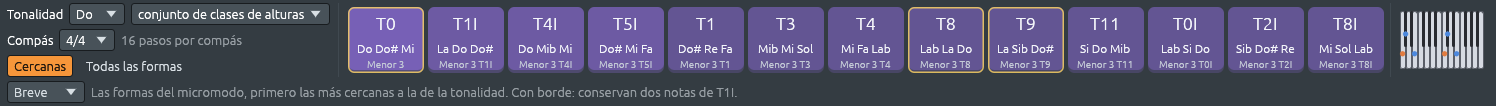
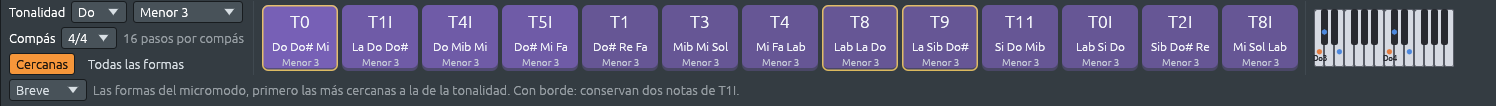
Harmony keys: write every note of a form, name the set under it
With a hexachord as the key, six note names did not fit in a key and
ran into the next one, worst in solfège ("Mib Mi Sol Lab Si Do" in
Webern's trichords with its 6-20 as the key). The keys of a row of
forms or groups now all take the width their widest notes need, at
least the usual width; a row too long for the window wraps.

Under a form's key was its name as the chord sheet writes it, which
counts from the class's prime form on C, while the key's label counts
its degree from the key: T0 said "6-20 T3". The key now names the set
(or micromode) every form is, "6-20"; the detailed tooltip gives the
sheet's name. Chord micromodes keep their triads.

A test opens Webern's trichords in Spanish with 6-20 as the key and
checks that no key's notes run into the next and that 6-20 is under
the keys. Manual and book (English and Spanish) describe it, with the
set and micromode key screenshots taken again.

Assisted-by: Claude Code

Changed region(s): [[0.0, 0.0, 1.0, 0.7075], [0.0, 0.566, 0.492, 0.9906], [0.0, 0.4528, 0.0922, 0.5377]]

diff --git a/crates/lineup-app/src/harmony_keys.rs b/crates/lineup-app/src/harmony_keys.rs
@@ -593,6 +593,7 @@ impl HarmonyKeys {
             .filter(|&form| Degree::of(scale, form).is_some());
         let next = last.map(degree::smooth_links).unwrap_or_default();
         let mut pressed = None;
+        let width = keys_width(ui, forms);
         ui.add_space(4.0);
         ui.horizontal_wrapped(|ui| {
             ui.vertical(|ui| self.settings(ui, project, here, parts, &mut actions));
@@ -602,7 +603,7 @@ impl HarmonyKeys {
                 let lit =
                     self.down.as_ref().is_some_and(|d| d.key == index) || playing == Some(set);
                 let outlined = !lit && next.contains(&set);
-                let response = form_key(ui, form, scale, lit, outlined);
+                let response = form_key(ui, form, width, scale, lit, outlined);
                 let hover = describe_form(form, index, self.hints, scale, last);
                 let response = crate::theme::hint(response, hover);
                 if response.is_pointer_button_down_on() {
@@ -711,6 +712,7 @@ impl HarmonyKeys {
         let scale = here;
         let heard_set: PitchSet = heard.iter().map(|note| note.pitch_class()).collect();
         let mut pressed = None;
+        let width = keys_width(ui, groups);
         ui.add_space(4.0);
         ui.horizontal_wrapped(|ui| {
             ui.vertical(|ui| self.settings(ui, project, here, parts, &mut actions));
@@ -718,7 +720,7 @@ impl HarmonyKeys {
             for (index, group) in groups.iter().enumerate() {
                 let lit = self.down.as_ref().is_some_and(|d| d.key == index)
                     || (heard_set.len() >= 2 && group.pitch_set() == heard_set);
-                let response = group_key(ui, group, lit);
+                let response = group_key(ui, group, width, lit);
                 let response =
                     crate::theme::hint(response, describe_group(group, index, self.hints));
                 if response.is_pointer_button_down_on() {
@@ -1382,15 +1384,33 @@ fn chord_label(chord: Chord, bass: PitchClass, scale: Scale) -> String {
         .unwrap_or_else(|| scale.chord_name(chord))
 }
 
+/// How wide `text` is, written at `size`.
+fn text_width(ui: &Ui, text: &str, size: f32) -> f32 {
+    ui.painter()
+        .layout_no_wrap(text.to_string(), FontId::proportional(size), KEY_TEXT)
+        .size()
+        .x
+}
+
+/// The width of every key in a row of `keys`: the usual width, or wider
+/// when a key's notes need it, so that they are written whole at the
+/// usual size. Six notes in solfège, "Mib Mi Sol Lab Si Do", need
+/// almost twice the usual width; all keys of a row get the same, so the
+/// row stays even.
+fn keys_width(ui: &Ui, keys: &[GroupKey]) -> f32 {
+    keys.iter()
+        .map(|key| {
+            let names: Vec<String> = key.names.iter().map(ToString::to_string).collect();
+            text_width(ui, &names.join(" "), 12.0) + 8.0
+        })
+        .fold(KEY_SIZE.x, f32::max)
+}
+
 /// The font size, at most `size`, at which `text` fits in `width`: a
 /// long chord name such as Cm(maj7)/Eb is written smaller instead of
 /// running over the edges of its key.
 fn fitting_size(ui: &Ui, text: &str, size: f32, width: f32) -> f32 {
-    let wide = ui
-        .painter()
-        .layout_no_wrap(text.to_string(), FontId::proportional(size), KEY_TEXT)
-        .size()
-        .x;
+    let wide = text_width(ui, text, size);
     if wide <= width {
         size
     } else {
@@ -1398,13 +1418,12 @@ fn fitting_size(ui: &Ui, text: &str, size: f32, width: f32) -> f32 {
     }
 }
 
-/// A harmony key of a row or a set: its label (which notes of the row it
-/// plays, or for a set the set they make), the notes, and underneath
-/// what the label does not already say (see [`group_footer`]).
-fn group_key(ui: &mut Ui, group: &GroupKey, lit: bool) -> Response {
+/// A harmony key of a row or a set, `width` wide (see [`keys_width`]):
+/// its label (which notes of the row it plays, or for a set the set they
+/// make), the notes, and underneath what the label does not already say
+/// (see [`group_footer`]).
+fn group_key(ui: &mut Ui, group: &GroupKey, width: f32, lit: bool) -> Response {
     let names: Vec<String> = group.names.iter().map(ToString::to_string).collect();
-    // Hexachords need a wider key for their six names.
-    let width = (names.len() as f32 * 15.0 + 12.0).max(KEY_SIZE.x);
     let (rect, response) = ui.allocate_exact_size(vec2(width, KEY_SIZE.y), Sense::click());
     ui.add_space(KEY_GAP - ui.spacing().item_spacing.x);
     if !ui.is_rect_visible(rect) {
@@ -1431,29 +1450,39 @@ fn group_key(ui: &mut Ui, group: &GroupKey, lit: bool) -> Response {
         FontId::proportional(fitting_size(ui, &group.label, 17.0, width - 8.0)),
         KEY_TEXT,
     );
+    let names = names.join(" ");
     painter.text(
         rect.center() + vec2(0.0, 9.0),
         Align2::CENTER_CENTER,
-        names.join(" "),
-        FontId::proportional(12.0),
+        &names,
+        FontId::proportional(fitting_size(ui, &names, 12.0, width - 6.0)),
         KEY_TEXT,
     );
+    let footer = group_footer(group);
     painter.text(
         rect.center_bottom() - vec2(0.0, 9.0),
         Align2::CENTER_CENTER,
-        group_footer(group),
-        FontId::proportional(10.0),
+        &footer,
+        FontId::proportional(fitting_size(ui, &footer, 10.0, width - 6.0)),
         KEY_TEXT_DIM,
     );
     response
 }
 
-/// A key of a micromode's form: its degree, its notes, and the
-/// micromode's own name for the form (or the triad it is) at the bottom.
-/// The more notes it keeps from home the brighter it is, so home and the
-/// forms next to it stand out; `outlined` marks a smooth way on.
-fn form_key(ui: &mut Ui, form: &GroupKey, scale: Scale, lit: bool, outlined: bool) -> Response {
-    let (rect, response) = ui.allocate_exact_size(KEY_SIZE, Sense::click());
+/// A key of a form of the set or micromode the key is, `width` wide (see
+/// [`keys_width`]): its degree, its notes, and at the bottom what it is
+/// (see [`form_footer`]). The more notes it keeps from home the brighter
+/// it is, so home and the forms next to it stand out; `outlined` marks a
+/// smooth way on.
+fn form_key(
+    ui: &mut Ui,
+    form: &GroupKey,
+    width: f32,
+    scale: Scale,
+    lit: bool,
+    outlined: bool,
+) -> Response {
+    let (rect, response) = ui.allocate_exact_size(vec2(width, KEY_SIZE.y), Sense::click());
     ui.add_space(KEY_GAP - ui.spacing().item_spacing.x);
     if !ui.is_rect_visible(rect) {
         return response;
@@ -1506,20 +1535,30 @@ fn form_key(ui: &mut Ui, form: &GroupKey, scale: Scale, lit: bool, outlined: boo
 }
 
 /// What a form's key says under its notes: for a chord micromode, the
-/// triad it is ("Ab"); otherwise the form's own name, as the chord sheet
-/// writes it, named as the key `scale` is ("Menor 3 T4", or "3-3 T4" in
-/// a key of three notes named as a set; "6-1 T2"), never the chord or
-/// scale of tonal music it may sound like.
+/// triad it is ("Ab"); otherwise what every form of the key is, the
+/// micromode or the set class, named as the key `scale` is ("Menor 3",
+/// "3-3" in a key of three notes named as a set, "6-20"), never the
+/// chord or scale of tonal music it may sound like.
+///
+/// Not the form's own name as the chord sheet writes it, "6-20 T3": that
+/// counts moves from the class's prime form on C, while the key's label
+/// counts them from the key's own form, so in a key that is not the
+/// prime form on C, the key T0 would say "6-20 T3" under it. The tooltip
+/// gives the sheet's name.
 fn form_footer(form: &GroupKey, scale: Scale) -> String {
-    match &form.chord {
-        Some(chord) => chord.clone(),
-        None => HarmonyName::form_in(form.pitch_set(), scale).to_string(),
+    if let Some(chord) = &form.chord {
+        return chord.clone();
+    }
+    match scale.micromode() {
+        Some(micromode) => micromode.name.to_string(),
+        None => form.pitch_set().set_class().name(),
     }
 }
 
-/// The tooltip of a micromode's key: "T2: E F G# · Menor 3 T4. Keeps 1
-/// note of home." and, from the last form played, how it would go on to
-/// this one: "From T0: keeps C# and E; C goes to D."
+/// The tooltip of a micromode's key: "T2: E F G# · Menor 3, keeps 1 note
+/// of home." and, from the last form played, how it would go on to this
+/// one: "From T0: keeps C# and E; C goes to D." In detail, also how the
+/// chord sheet writes the form: "On the chord sheet: Menor 3 T4."
 fn describe_form(
     form: &GroupKey,
     index: usize,
@@ -1558,14 +1597,18 @@ fn describe_form(
         }
         text += &format!(" {}", trf("From {}: {}.", &[&from, &link]));
     }
-    if level == HintLevel::Detailed && index < 7 {
-        text += &format!(
-            " {}",
-            trf(
-                "Hold to play; key {} on the computer keyboard too.",
-                &[&(index + 1)]
-            )
-        );
+    if level == HintLevel::Detailed {
+        let written = HarmonyName::form_in(set, scale).to_string();
+        text += &format!(" {}", trf("On the chord sheet: {}.", &[&written]));
+        if index < 7 {
+            text += &format!(
+                " {}",
+                trf(
+                    "Hold to play; key {} on the computer keyboard too.",
+                    &[&(index + 1)]
+                )
+            );
+        }
     }
     text
 }

diff --git a/crates/lineup-app/src/app/ux_tests.rs b/crates/lineup-app/src/app/ux_tests.rs
@@ -5227,6 +5227,50 @@ fn the_key_menu_lists_the_sets_of_each_size() {
     assert!(!shows(&mut screen, "Caug"));
 }
 
+/// The forms of a hexachord are written whole, six notes in solfège too:
+/// Webern's trichords with its 6-20 as the key, in Spanish. No key's
+/// notes run into the next key's, and under each key is the set, 6-20,
+/// not the sheet's name "6-20 T3", whose T number would disagree with
+/// the key's degree T0.
+#[test]
+fn a_hexachords_forms_are_written_whole_in_solfege() {
+    use lineup_core::library::{RowStyle, demo};
+    use lineup_core::{PitchClass, PitchSet};
+    let mut screen = Screen::new();
+    crate::i18n::set_language(&screen.ctx, crate::i18n::Language::Spanish);
+    let mut webern = demo::row_demo(RowStyle::named("Webern's trichords").unwrap());
+    // The row's first half, Eb E G Ab B C, on C, as the Key menu's
+    // outlined 6-20 takes it.
+    webern.scale = Scale::set(
+        PitchClass::C,
+        PitchSet::from_semitones(&[3, 4, 7, 8, 11, 0]),
+    );
+    screen.app.replace_project(webern, None);
+    screen.app.rack_open = false;
+    screen.app.chord_sheet.open = false;
+    screen.app.harmony_keys.open = true;
+    screen.click("Formas");
+    screen.draw(Vec::new());
+    let output = screen.draw(Vec::new());
+    let notes = [
+        "Mib Mi Sol Lab Si Do",
+        "Do Do# Mi Fa Lab La",
+        "Re Mib Fa# Sol Sib Si",
+        "Do# Re Fa Fa# La Sib",
+    ];
+    let rects: Vec<Rect> = notes
+        .iter()
+        .map(|text| text_rect(&output, text).unwrap_or_else(|| panic!("Missing: {text}")))
+        .collect();
+    for pair in rects.windows(2) {
+        assert!(pair[0].right() < pair[1].left(), "{pair:?}");
+    }
+    assert!(text_rect(&output, "6-20").is_some());
+    assert!(text_rect(&output, "6-20 T3").is_none());
+    lineup_core::NoteNaming::Letters.set();
+    crate::i18n::Language::English.set();
+}
+
 /// A key that is any pitch-class set offers its forms too, and the chord
 /// sheet's Progression menu chains them.
 #[test]

diff --git a/crates/lineup-core/src/i18n/es/theory.rs b/crates/lineup-core/src/i18n/es/theory.rs
@@ -2447,6 +2447,7 @@ pub(super) const TEXTS: &[(&str, &str)] = &[
         "conserva {} notas de la forma de la tonalidad",
     ),
     ("From {}: {}.", "Desde {}: {}."),
+    ("On the chord sheet: {}.", "En la hoja de acordes: {}."),
     ("1 common", "1 común"),
     ("{} common", "{} comunes"),
     (

diff --git a/manual-es/src/sets-rows-micromodes.md b/manual-es/src/sets-rows-micromodes.md
@@ -99,8 +99,14 @@ cosas, que se eligen a la izquierda:
 
 Las formas empiezan por casa y siguen según cuántas notas conservan de
 casa, más brillantes cuantas más conservan. Cada tecla muestra las
-notas de la forma en su orden más compacto y, debajo, la forma como la
-escribe la hoja de acordes. Un conjunto es música sin tonalidad, así
+notas de la forma en su orden más compacto y, debajo, el conjunto, 4-27
+o 6-20, el mismo en todas las teclas. Las teclas se ensanchan cuando
+las notas lo necesitan, así que seis notas en solfeo se escriben
+enteras. Apunta a una tecla para leer el nombre de la forma como lo
+escribe la hoja de acordes, «4-27 T2»: ese nombre cuenta desde la forma
+prima del conjunto sobre Do, y el grado de la tecla cuenta desde la
+tonalidad, así que los dos números difieren salvo que la tonalidad sea
+la forma prima sobre Do. Un conjunto es música sin tonalidad, así
 que ni las teclas ni los acordes apilados con el conjunto llevan los
 nombres de los acordes y escalas de la música tonal a los que pueden
 sonar. En una tonalidad que es el conjunto Do Mi Sol Si♭ (4-27), T2I es
@@ -115,7 +121,7 @@ tonalidad](#un-micromodo-como-tonalidad)). **Cercanas** muestra las
 formas que conservan al menos la mitad de las notas de casa, **Todas las
 formas** las muestra todas.
 
-![Las teclas de armonía en una tonalidad que es el conjunto Do Mi Sol Si♭, conjunto 4-27 en el menú Tonalidad, con Formas activado, después de tocar T2I: T0 (Mi Sol Si♭ Do), T2I (Re Mi Sol Si♭), después T3, T6, T9 y las formas dadas vuelta que conservan dos notas, cada una con su nombre como lo escribe la hoja de acordes debajo (4-27 T0I, 4-27 T2…); T0 aparece con borde porque conserva tres notas de T2I](images/set-forms-keys.png)
+![Las teclas de armonía en una tonalidad que es el conjunto Do Mi Sol Si♭, conjunto 4-27 en el menú Tonalidad, con Formas activado, después de tocar T2I: T0 (Mi Sol Si♭ Do), T2I (Re Mi Sol Si♭), después T3, T6, T9 y las formas dadas vuelta que conservan dos notas, cada una con 4-27 debajo; T0 aparece con borde porque conserva tres notas de T2I](images/set-forms-keys.png)
 
 **Una progresión de formas.** En una tonalidad que es un conjunto, el
 botón **Progresión** de la hoja de acordes ofrece maneras de encadenar
@@ -517,7 +523,7 @@ siendo ii en cualquier tonalidad mayor. Casa es siempre T0. Con las
 tríadas, el acorde paralelo es T7I: Do menor en Do mayor, y Do mayor en
 Do menor.
 
-![Las teclas de armonía en una tonalidad de Menor 3 sobre Do después de tocar T1I: T0, T1I, T4I y T5I, después las formas que conservan una nota de casa, cada una con sus notas y su nombre; T0, T8 y T9 aparecen con borde porque conservan dos notas de La Do Do♯, y la ayuda de abajo lo dice](images/micromode-keys.png)
+![Las teclas de armonía en una tonalidad de Menor 3 sobre Do después de tocar T1I: T0, T1I, T4I y T5I, después las formas que conservan una nota de casa, cada una con sus notas y Menor 3 debajo; T0, T8 y T9 aparecen con borde porque conservan dos notas de La Do Do♯, y la ayuda de abajo lo dice](images/micromode-keys.png)
 
 Las **teclas de armonía** muestran las formas de la tonalidad: casa
 primero, después las formas que conservan dos de sus notas, después las

diff --git a/manual/src/sets-rows-micromodes.md b/manual/src/sets-rows-micromodes.md
@@ -91,8 +91,13 @@ play two things, chosen at the left:
 
 The forms come home first, then by how many notes they keep of home,
 brighter the more they keep. Each key shows the form's notes in their
-most compact order and, under them, the form as the chord sheet writes
-it. A set is music without a key, so neither the keys nor the chords
+most compact order and, under them, the set, 4-27 or 6-20, the same on
+every key. The keys widen when the notes need it, so six notes in
+solfège are written whole. Point at a key to read the form's name as
+the chord sheet writes it, "4-27 T2": that name counts from the set's
+prime form on C, while the key's degree counts from the key, so the
+two numbers differ unless the key is the prime form on C. A set is
+music without a key, so neither the keys nor the chords
 stacked from the set are named as the chords and scales of tonal music
 they may sound like. In a key that is C E G B♭ as a set (4-27), T2I is
 D E G B♭, the only form that keeps three of its notes (to a tonal ear,
@@ -104,7 +109,7 @@ are triads by name, show the triad each form is (see [A micromode as
 the key](#a-micromode-as-the-key)). **Near home** shows the forms that
 keep at least half the notes of home, **All forms** shows them all.
 
-![The harmony keys in a key that is the set C E G B♭, set 4-27 in the Key menu, with Forms on, after T2I was played: T0 (E G B♭ C), T2I (D E G B♭), then T3, T6, T9 and the turned forms that keep two notes, each with its name as the chord sheet writes it underneath (4-27 T0I, 4-27 T2…); T0 is outlined because it keeps three notes of T2I](images/set-forms-keys.png)
+![The harmony keys in a key that is the set C E G B♭, set 4-27 in the Key menu, with Forms on, after T2I was played: T0 (E G B♭ C), T2I (D E G B♭), then T3, T6, T9 and the turned forms that keep two notes, each with 4-27 underneath; T0 is outlined because it keeps three notes of T2I](images/set-forms-keys.png)
 
 **A progression of forms.** In a set key, the chord sheet's
 **Progression** button offers ways to chain the set's forms, in place
@@ -473,7 +478,7 @@ Move the whole song to D and every form keeps its degree, as ii stays
 ii in any major key. Home is always T0. With the triads, the parallel
 chord is T7I: C minor in C major, and C major in C minor.
 
-![The harmony keys in a key of Menor 3 on C after T1I was played: T0, T1I, T4I and T5I, then the forms that keep one note of home, each with its notes and its name; T0, T8 and T9 are outlined because they keep two notes of A C C♯, and the hint below says so](images/micromode-keys.png)
+![The harmony keys in a key of Menor 3 on C after T1I was played: T0, T1I, T4I and T5I, then the forms that keep one note of home, each with its notes and Menor 3 underneath; T0, T8 and T9 are outlined because they keep two notes of A C C♯, and the hint below says so](images/micromode-keys.png)
 
 The **harmony keys** show the key's forms, home first, then the forms
 that keep two of its notes, then the ones that keep one; the more a

diff --git a/book-es/src/theory/sets.md b/book-es/src/theory/sets.md
@@ -621,8 +621,24 @@ conservan una y seis ninguna.
 
 En la aplicación, una tecla nunca llama a una forma de un conjunto por
 el acorde o la escala a la que suena. Su tecla muestra el grado, las
-notas en forma normal y, debajo, la forma como la escribe la hoja de
-acordes: T2I de Do Mi Sol Si♭ es Re Mi Sol Si♭, **4-27 T2**. Una forma
+notas en forma normal y, debajo, el conjunto que es toda forma de la
+tonalidad, 4-27. El nombre propio de la forma como lo escribe la hoja
+de acordes, siendo T2I de Do Mi Sol Si♭ Re Mi Sol Si♭, **4-27 T2**, está
+en la ayuda de la tecla, no en la tecla: el T*n* de la hoja cuenta desde
+la forma prima de la clase sobre Do y el grado desde la tonalidad, así
+que en una tonalidad que no es la forma prima sobre Do los dos no
+coinciden. *Los tricordios de Webern* con su 6-20 como tonalidad lo
+mostró: T0, la forma propia de la tonalidad, es 6-20 T3. `form_footer`
+da el conjunto (o el micromodo, o la tríada de un micromodo acorde);
+`describe_form` agrega «En la hoja de acordes: 6-20 T3.» a la ayuda
+detallada.
+
+Las teclas de una fila son tan anchas como lo piden sus notas más
+anchas: `keys_width` mide las notas de cada tecla al tamaño de letra de
+la tecla y da a todas las teclas de la fila la más ancha, como mínimo
+los 76 puntos de siempre, así que seis notas en solfeo, «Mib Mi Sol Lab
+Si Do», se escriben enteras en lugar de meterse en la tecla de al lado.
+Una fila demasiado larga para la ventana pasa a una segunda línea. Una forma
 de más de cinco notas que es la escala de la tonalidad transportada se
 sigue escribiendo como esa escala (7-35 subido una quinta desde Do mayor
 se escribe Sol La Si Do Re Mi Fa♯, con Fa♯, no Sol♭), pero no se llama

diff --git a/book/src/theory/sets.md b/book/src/theory/sets.md
@@ -587,8 +587,22 @@ six keep none.
 
 In the app, a key never calls a set's form by the chord or scale it
 sounds like. Its key shows the degree, the notes in normal form, and
-underneath the form as the chord sheet writes it: T2I of C E G B♭ is
-D E G B♭, **4-27 T2**. A form of more than five notes that is the
+underneath the set every form of the key is, 4-27. The form's own name
+as the chord sheet writes it, T2I of C E G B♭ being D E G B♭, **4-27
+T2**, is in the key's tooltip, not on the key: the sheet's T*n* counts
+from the class's prime form on C and the degree from the key, so on a
+key that is not the prime form on C the two disagree. Webern's
+trichords with its 6-20 as the key showed it: T0, the key's own form,
+is 6-20 T3. `form_footer` gives the set (or the micromode, or a chord
+micromode's triad); `describe_form` adds "On the chord sheet: 6-20
+T3." to the detailed tooltip.
+
+The keys of a row are as wide as their widest notes need:
+`keys_width` measures each key's notes at the key's font size and
+gives every key of the row the widest, at least the usual 76 points,
+so six notes in solfège, "Mib Mi Sol Lab Si Do", are written whole
+instead of running into the next key. A row too long for the window
+wraps onto a second line. A form of more than five notes that is the
 key's own scale moved is still spelled as that scale (7-35 moved up a
 fifth from C major is written G A B C D E F♯, with F♯, not G♭), but not
 called G major. Only Kröpfl's three chord micromodes (Acorde
